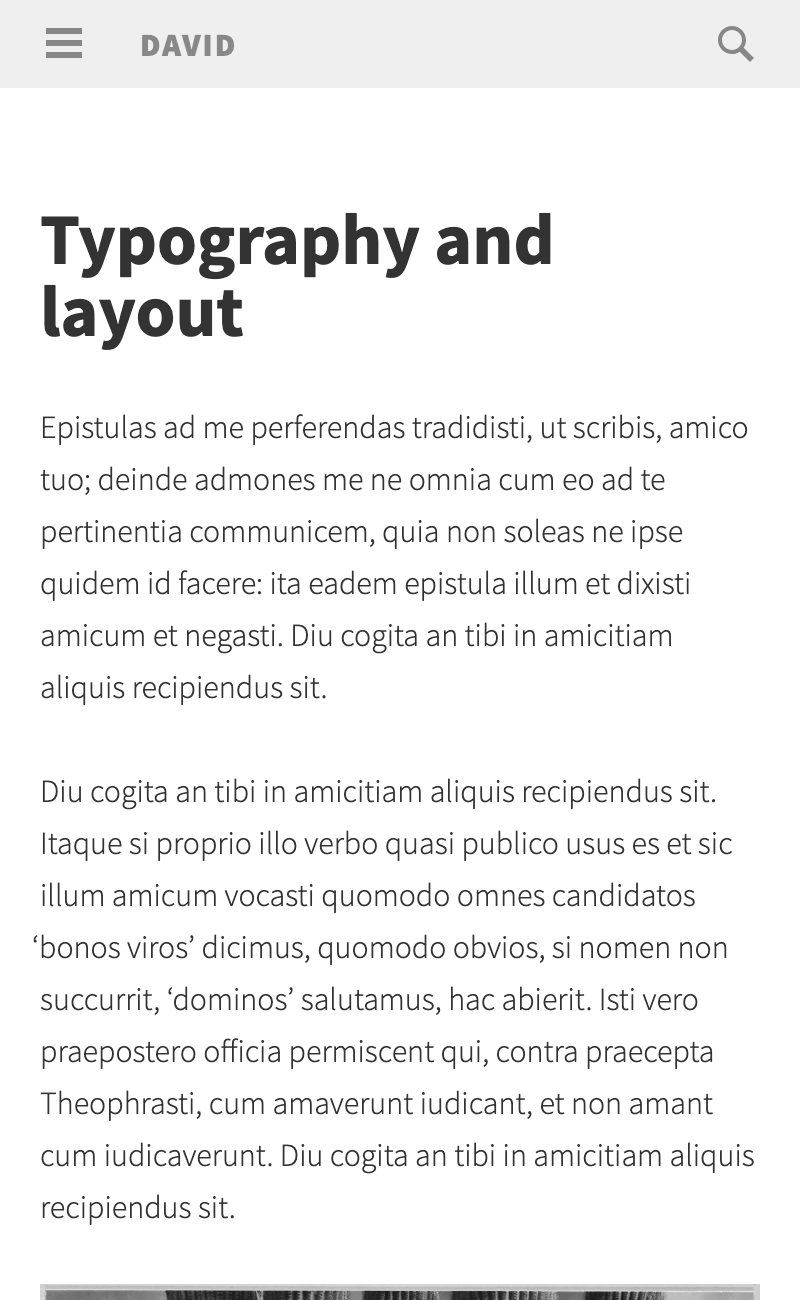
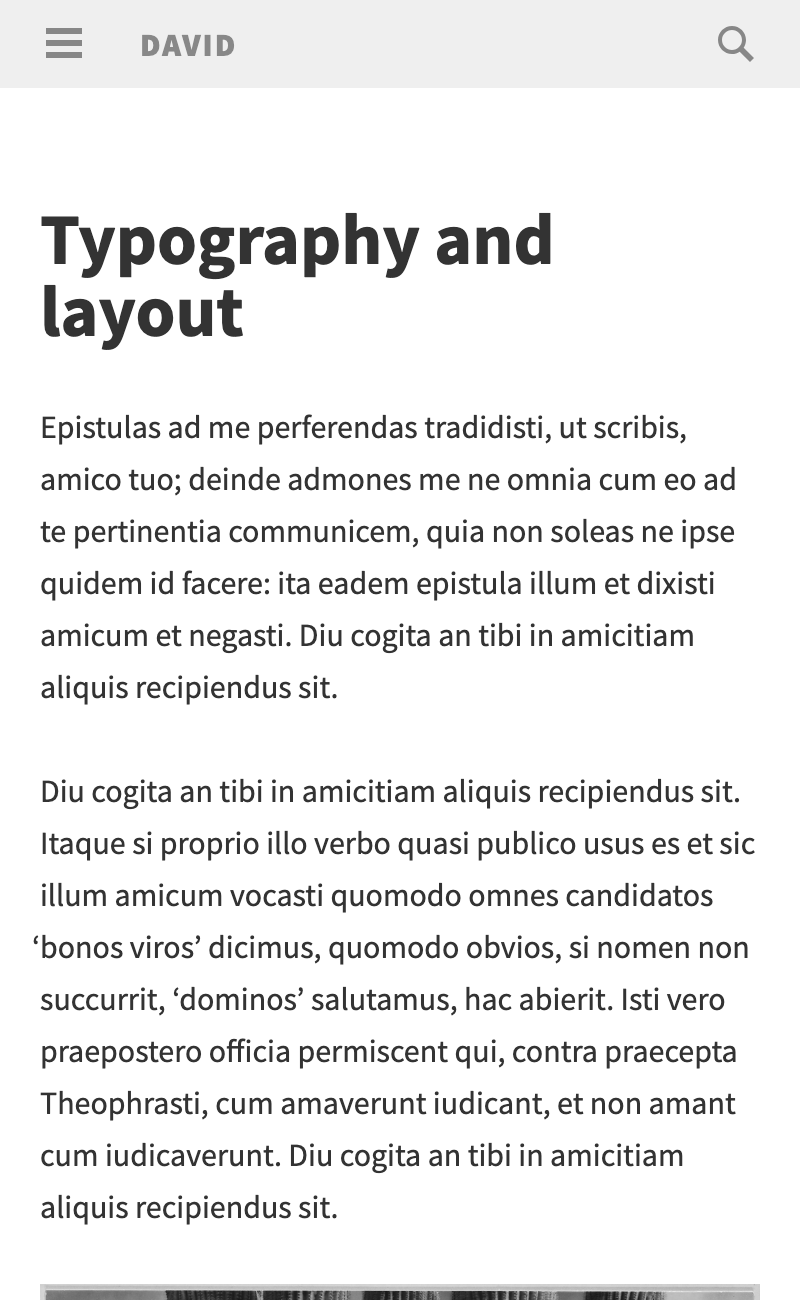
Fix thin Fieldnotes body text after dashboard font migration

Changed region(s): [[0.0312, 0.5846, 0.9375, 0.9538], [0.0625, 0.3077, 0.9375, 0.5538]]

diff --git a/app/templates/source/fieldnotes/style.css b/app/templates/source/fieldnotes/style.css
@@ -3018,6 +3018,11 @@ body {
 	font-family: var(--body-font-family);
 	font-size: var(--body-font-size);
 	line-height: var(--body-line-height);
+	/* Isola sets `font-weight: 300` on body, which used to fall back to the
+	   Regular face because Source Sans Pro Light was never loaded. Now that a
+	   real 300 face ships with the self-hosted font, pin body copy to 400 to
+	   keep the original rendered weight. */
+	font-weight: 400;
 }
 
 button,
